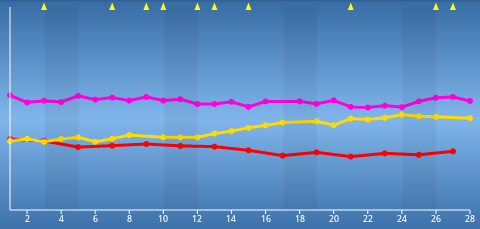
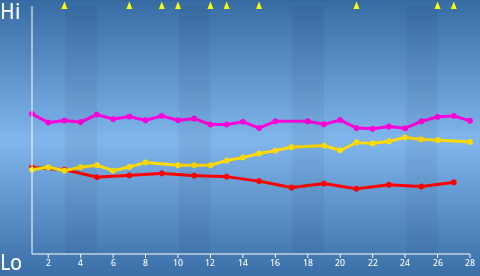
Updated help text again Added y-axis Hi,Lo labels
git-svn-id: http://svn.t2.local/svn/mobile/trunk/android/VAS/VAS@1084 9a4616e5-df29-b34f-a986-34b38b490834

diff --git a/assets/help.html b/assets/help.html
@@ -33,7 +33,7 @@
 		<div id="ScaleResultsActivity"></div>
 		<h2 id="GroupResultsActivity">Reviewing Your Results</h2>
 		<p>By selecting <span style="color:#ff0000">Graphed Results</span> from the main screen you can view all of your ratings by date.  To view graphs of previous or subsequent months use the arrows beneath the graph.  You can view your results on any combination of mood categories by toggling each one ON or OFF.</p>
-		<p>Each point on the graph represents the average of your mood ratings for each of the ten opposing pairs of feeling states for that mood category on a given day.  Downward trends in the graphs represent more positive self-ratings unless the category has been marked as desirable (such as the "General Well-Being" category).</p>
+		<p>Each point on the graph represents the average of your mood ratings for each of the ten opposing pairs of feeling states for that mood category on a given day.  Data points toward the top of the graph represent higher levels of each mood category (high Anxiety, high General Well-Being) while ratings toward the bottom of the graph represent lower levels.</p>
 		<img src="file:///android_asset/img/graph_example.png" style="width:300px" />
 		<p>You can view your notes by touching <span style="color:#ff0000">Notes.</span>  There is a small triangle shaped indicator on the top of the graph indicating which dates have notes associated with them.  You can add a note for any date by touching “<span style="color:#ff0000">Add a Note</span>” at the top of the screen.</p>
 		<p>By touching any of the Mood Category labels (e.g., Anxiety), you can display the graphs of your self-ratings for each of the ten pair of opposing feeling states.  As with the category graphs, you can display or hide each of the graphs by toggling them ON and OFF.</p>

diff --git a/src/com/t2/vas/activity/ABSResultsActivity.java b/src/com/t2/vas/activity/ABSResultsActivity.java
@@ -105,6 +105,7 @@ public abstract class ABSResultsActivity extends ABSNavigationActivity implement
 	private DisplayMetrics displayMetrics = new DisplayMetrics();
 	private DataPointCache dataPointCache;
 	protected boolean reverseLabels;
+	private ViewGroup chartWrapper;
 	
 	@Override
 	public void onCreate(Bundle savedInstanceState) {
@@ -143,6 +144,7 @@ public abstract class ABSResultsActivity extends ABSNavigationActivity implement
 		//this.backgroundChartContainer = (ViewGroup) this.findViewById(R.id.backgroundChartContainer);
 		//this.foregroundChartContainer = (ViewGroup) this.findViewById(R.id.foregroundChartContainer);
 		this.chartSwitcher = (ViewSwitcher) this.findViewById(R.id.chartSwitcher);
+		this.chartWrapper = (ViewGroup) this.findViewById(R.id.chartWrapper);
 		
 		// add extra button
 		this.setRightButtonText(getString(R.string.add_note));
@@ -586,9 +588,9 @@ public abstract class ABSResultsActivity extends ABSNavigationActivity implement
 			
 			// Make the switcher appear.
 			chartSwitcher.addView(chartView, LayoutParams.FILL_PARENT,LayoutParams.FILL_PARENT);
-			if(chartSwitcher.getVisibility() == View.INVISIBLE) {
-				chartSwitcher.setVisibility(View.VISIBLE);
-				chartSwitcher.startAnimation(fadeInAnimation);
+			if(chartWrapper.getVisibility() == View.INVISIBLE) {
+				chartWrapper.setVisibility(View.VISIBLE);
+				chartWrapper.startAnimation(fadeInAnimation);
 			}
 			
 			// Set the chart transition animation.
@@ -613,8 +615,9 @@ public abstract class ABSResultsActivity extends ABSNavigationActivity implement
 		
 		// Fade out the existing chart to the instructions are visible.
 		} else {
-			chartSwitcher.startAnimation(fadeOutAnimation);
-			chartSwitcher.setVisibility(View.INVISIBLE);
+			chartWrapper.setVisibility(View.INVISIBLE);
+			chartWrapper.startAnimation(fadeOutAnimation);
+			
 			chartSwitcher.removeAllViews();
 		}
 	}
